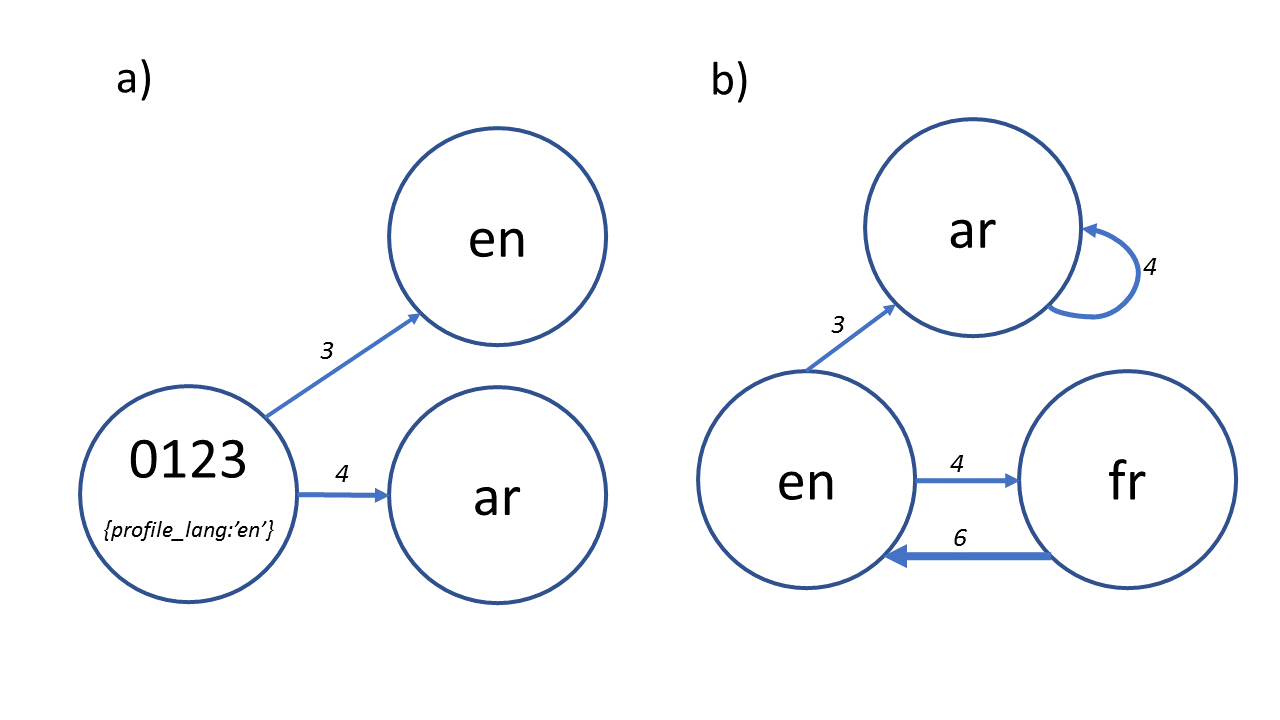
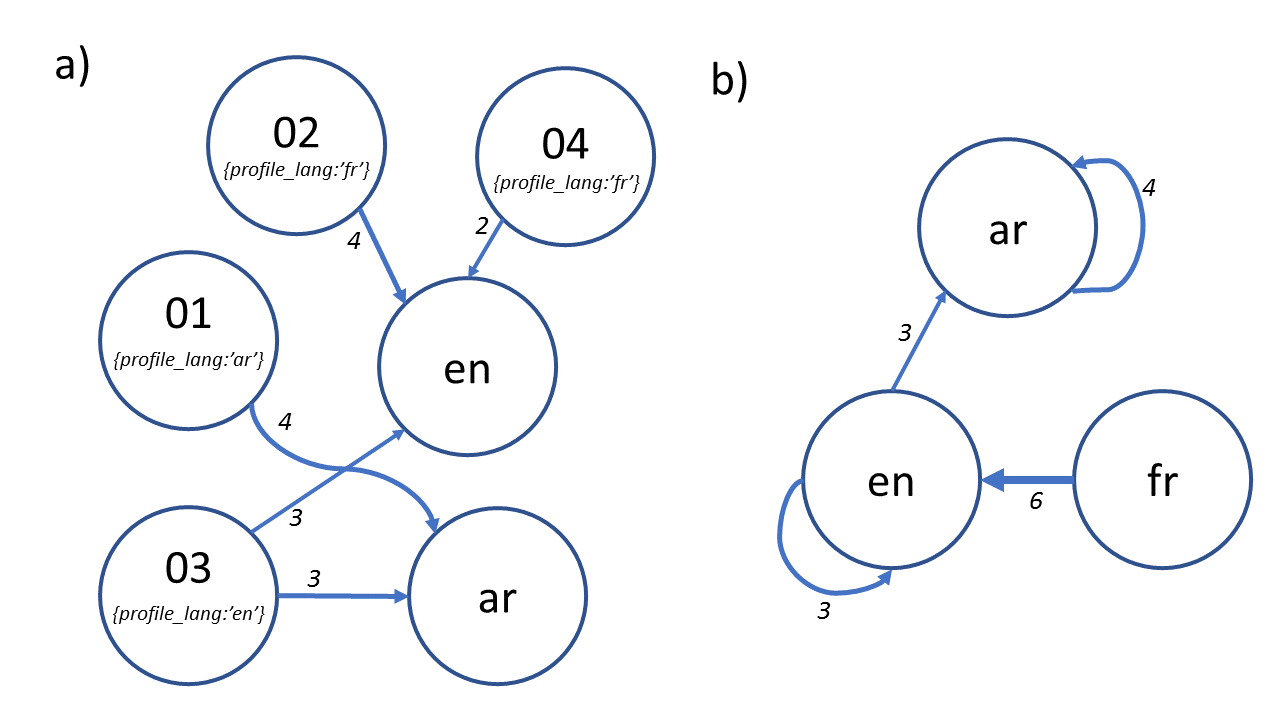
More in 'measures', fig1 [update]

diff --git a/icci2017.tex b/icci2017.tex
@@ -245,35 +245,52 @@ all graphs must be directed to provide correct measurements.
 \end{figure}
 
 \subsubsection{User Languages}
-As shown in Figure~\ref{fig:graphstructures}.a, nodes in this graph are 
-of two types; users and posting language. Each posted tweet results in 
+This graph is the core graph in analysis. As shown in Figure~\ref{fig:graphstructures}.a, 
+nodes in this graph are of two types; users and posting language. Each posted tweet results in 
 two nodes, one represents the user with profile language setting added 
 to the node as the attribute '{\emph{\{profile\_lang:xx\}}}'. The other node 
 represents language of the tweet. Edges link user with the posting languages 
 they used, and their weight (thinkness) measures the number of tweets that
 have been posted by the user (the strting node) in the traget language (ending node).
-In the example above, the profile language setting for user '0123' is 'en', he 
-posted 3 tweets in 'en' and 4 in 'ar'. It is important to note that user nodes 
+In the example above, the profile language setting for user '03' is 'en', he 
+posted 3 tweets in 'en' and 3 in 'ar'. It is important to note that user nodes 
 have only outgoing edges, while language nodes have only incoming edges. 
-This graph will be used to measure language diversity of users and the topic as a whole
+This graph will be used to measure language diversity of users and the topic as a whole,
+and will be referred to as '\emph{users graph}'.
 
 \subsubsection{Language Communities}
-This graph, as shown in Figure~\ref{fig:graphstructures}.b has one type of nodes, 
-language community nodes. Theorytically, each posted tweet results in two nodes, 
-one for the user profile, and the other for the posting language. In our example above, 
+Derived from the users graph, this graph has one type of nodes, language community,
+as shown in Figure~\ref{fig:graphstructures}.b. Technically, for each user node we 
+generate one node from the '{\emph{\{profile\_lang:xx\}}}' attribute, and another node
+
+attribute we mentioned earlier.
+done b user nodes in the users graph, and create Theorytically, each posted tweet results
+in two nodes, one for the user profile, and the other for the posting language. In our example above, 
 users with 'en' profiles have posted 4 tweets in 'fr' and 3 in 'ar'. In the case of 'ar' 
 node, we can see that it connect to itself, this means that users of the profile language
-as 'ar' have posted 4 tweets in 'ar'. 
+as 'ar' have posted 4 tweets in 'ar'. This graph will be referred to as '\emph{communities graph}'.
 
 By utilising network graph measures, this graph can provide measures about 
-language communities. Further, we can measure what profile languages are
-present, what languages are used for posting, and how
-different language communities are linked to each other, as we will see in the following sections.
+language communities. We can measure what profile languages are present, 
+what languages are used for posting, and how different language communities 
+are linked to each other, as we will see in the following sections.
 
 \subsection{Measures}
 As we are using network graphs in this study, this section presents the measures we use 
-in the analysis for each graphs. It is important to recall that both graphs are directed.
-For each generated graph, we will use 
+in the analysis of each graph. Mainly, we use different mixture of '\emph{indegree}', '\emph{outdegree}', 
+and edge '\emph{weights}' to conduct analyses. 
+
+
+\subsubsection{Profile Communities}
+This is measured from the language communities graph: number of nodes with outdegree \textgreater  0. 
+
+\subsubsection{Posting Languages}
+This is to measure posting languages. Taken from communities graph: number of nodes with indegree \textless 0 .
+
+\subsubsection{Users Multilingualism}
+Applied on the users graph: outdegree of user nodes shows how many languages he used, regardless of the weight.
+To filter users nodes in this graph, we take all nodes with indegree = 0. 
+
 We present two language diversity measurements. The
 first, which we call `diversity', is to measure uses of languages
 different to the profile's i.e. we are referring to `non-selfloop'
